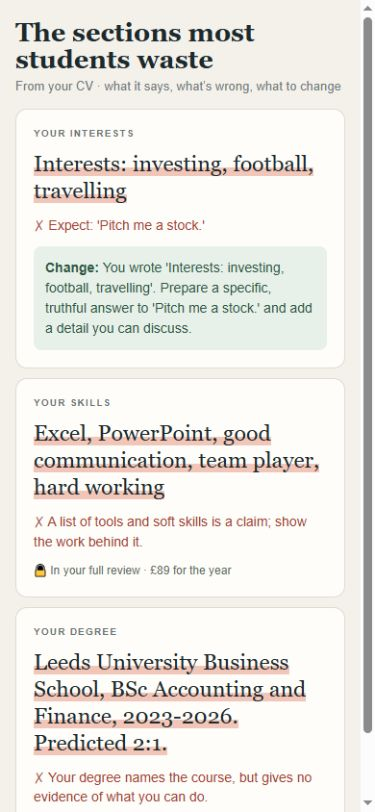
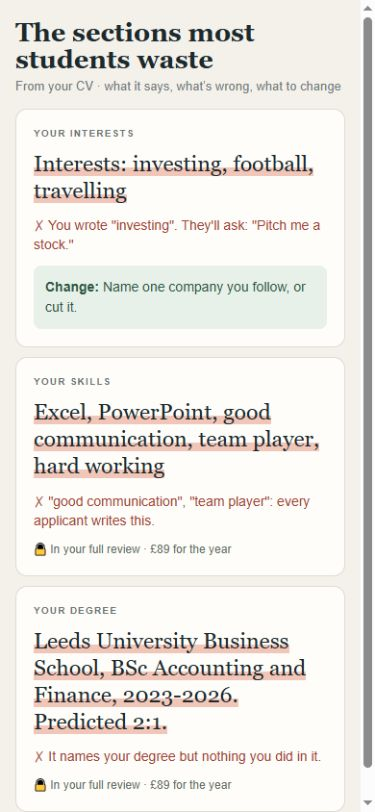
Use the attached blunt headline reasons and include actual test gaps

diff --git a/HANDOVER.md b/HANDOVER.md
@@ -1,3 +1,11 @@
+# START HERE — attached headline reason framework27November
+
+Latestuserattachments Downloads/cv-fault-framework_1.mjs and test_1.mjs were read. Incorporated exactapprovedharsherCV_GAPS/FALLBACK_GAPS,headlinelead rule,sectionsCheck advice+trapwording andtestGap. Replacedattachedtestfile andpreservedproductionadapters/allFlaggedLines/coursemetadata/routewording/fairness fixes;blindwholereplacementwouldremove required APIfields andregresspriorfixes. Publicquotes remainexact,untruncated. Attachedtests pass. StrongCVfallback includes qualifyingCVsubject (AmeliaLVMHvaluation). Actualquizmarks feedtestGap,invalid/skippedmarks donot;testsweakmayleadat<=4/10. headlinepropertynow explicittrueonreason1. Skills/interests/orderingneverlead. Sectionsfullmemberrewritesremainfact-only/gaps.35 latestframework/reportchecks pass;broader112 priorchecks pass;finalbroad rerun next. Proof docs/verification/headline-reasons-27nov includes4CV-onlyphoneviews+testsection;sections8proof refreshed toattachedwording.
+
+Live d8a7adce7cdb5d8ea552ddeeef4dd43e523f7236 READY dpl_CCL44ur1bdd6VJrPn1YSehjreqMM on thedesk.vercel.app includesvaluecards,sectioncard,reasonbadges,flagcounts,testbands/practiceupsell,loading,restart. Correctserverredirect andlatestattachedheadlineframework notdeployeduntilnextrelease. APIbacktoback realtest alreadyprovedreset+emptyfirm+preservedfirstreport+publicgating;redirect307previouslyfailedbecause duplicateconfigkey,nowmerged+regressionpass. Need verifyfinal307andlatestassetmatches afternewREADY. Emailstilldeferred/unconfigured, noliveunlockedclaim.
+
+---
+
 # Live verification follow-up27November
 
 Bothsameowner realAPIassessments succeeded:IBBarclays then Accountingnofirm,stale revision rejected,completed firstreport preserved,section publicpayload omitslockedguidance,actualwrongquestion present. Live redirecttest caughtduplicate redirects key:existing laterblockoverrode new307rule. Merged into originalarray,addedregressiontest. Fallbacknoscriptonly already removesblueflash. Finaldeploymentmustinclude thisfix plus testbands.

diff --git a/docs/verification/sections-27nov/README.md b/docs/verification/sections-27nov/README.md
@@ -1,5 +1,5 @@
 # Section card proof,27November2026
 
-Eight LOCAL390x844 browser card previews: James,Amelia,Sophie,Tom;locked and free-unlocked. They use the committed fictional CV fixture and actual deterministic sectionsPreview + sectionsCardMarkup. No AI generation, numeric score changes or live email-unlock bypass. The supplied updated attachment/mock was not present locally; implementation follows the written brief. Original says quotes asserted verbatim. Public payload contains no changes/rewrites;free payload contains one change only;member contains all changes and fact-only rewrites with amber gaps.
+Eight LOCAL390x844 browser card previews: James,Amelia,Sophie,Tom;locked and free-unlocked. They use the committed fictional CV fixture and actual deterministic sectionsPreview + sectionsCardMarkup. No AI generation, numeric score changes or live email-unlock bypass. Latest _1 framework/test attachments were subsequently provided and incorporated; screenshots refreshed to that wording. The reference mock image remains unavailable. Original says quotes asserted verbatim. Public payload contains no changes/rewrites;free payload contains one change only;member contains all changes and fact-only rewrites with amber gaps.
 
 112 focused assessment/framework/privacy/restart/ATS checks pass;13 HireVue,9 guide API,17 evidence guide and8 taster checks pass separately. Two pre-existing unrelated standalone harness tests remain failing (interview-taster-context lacks request headers;crib-trial mock lacks coachQuestion). No claim of a full repository test pass. Email saving remains explicitly deferred/unconfigured, so these unlocked screenshots are layout/data-gating previews, not live signup proof.

diff --git a/docs/verification/headline-reasons-27nov/README.md b/docs/verification/headline-reasons-27nov/README.md
@@ -1,0 +1,5 @@
+# Headline reasons proof27November
+
+Four390x844 localCV-only render previews,using actual framework and report renderer:Jameschores,Tomnorelevantwork,AmeliaLVMHvaluation,SophieWarwickbudgetevents.2/3numberbadges remainunblurred. Tests screenshotusesactual bankquestions and recorded2/5+2/5answers,withactualwronganswer andcorrectanswer. These are notlive email-unlock screenshots.
+
+Attached cv-fault-framework_1.mjs and test_1.mjs read and incorporated. Attached exactgapwording/headlineflags,sectionsadvice/traps andtestGap included;productionallFlaggedLines/coursemetadata/routewording/spellednumbervalidation/inlineSkills support retained. Sectionquotes remainexact (no suppliedtruncation). sectionsPreview guards allprotectedfields. Harsherreasonfallback enriched withCV-onlysubject;academicvaluationpreferredwhenavailable. testGap getsactualquiztotals from frameworkResult,not generated scores.
